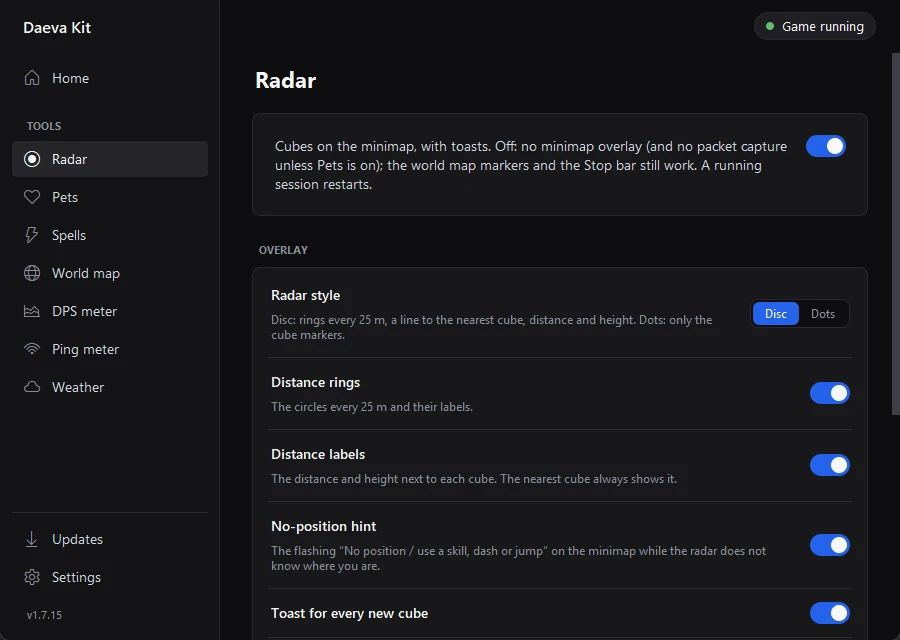
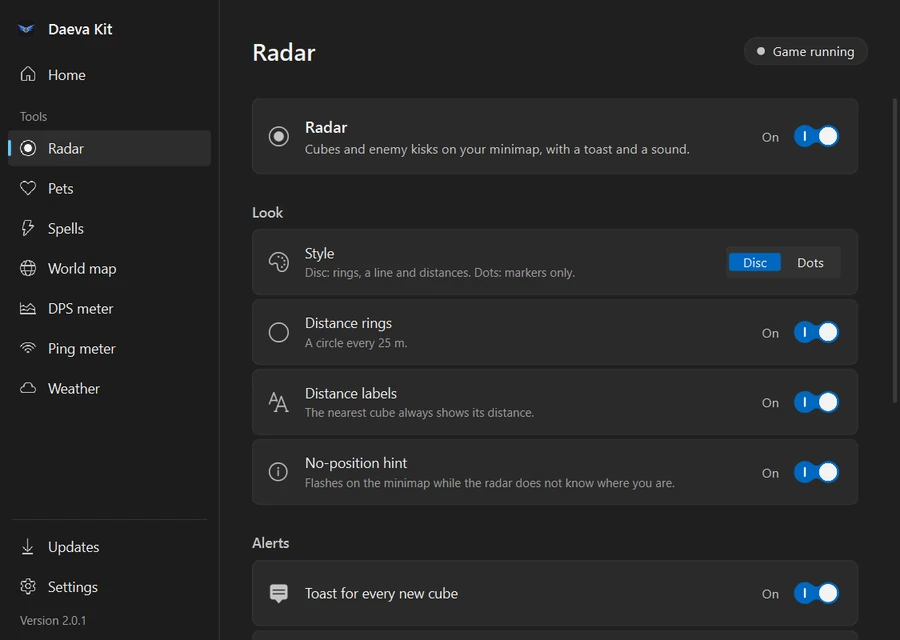
Update Daeva Kit and PowerTray screenshots for their new versions

diff --git a/src/data/projects.ts b/src/data/projects.ts
@@ -14,6 +14,12 @@ import daevaSpellIcons from '../assets/projects/daeva-kit/spell-icons.webp'
 import daevaPetsPanel from '../assets/projects/daeva-kit/pets-panel.webp'
 import daevaRadar from '../assets/projects/daeva-kit/radar-page.webp'
 import daevaWeather from '../assets/projects/daeva-kit/weather-page.webp'
+import daevaSpellsPage from '../assets/projects/daeva-kit/spells-page.webp'
+import daevaPingPage from '../assets/projects/daeva-kit/ping-page.webp'
+import daevaPetsPage from '../assets/projects/daeva-kit/pets-page.webp'
+import daevaWorldMap from '../assets/projects/daeva-kit/world-map-page.webp'
+import daevaSettings from '../assets/projects/daeva-kit/settings-page.webp'
+import daevaUpdates from '../assets/projects/daeva-kit/updates-page.webp'
 import engineMain from '../assets/projects/engine-optimizer/main-window.webp'
 import ilvlDashboard from '../assets/projects/ilvl-upgrade-odds/dashboard.webp'
 import lolRoc from '../assets/projects/lol-win-predictor/roc-comparison.webp'
@@ -27,6 +33,10 @@ import pokedexResult from '../assets/projects/pokedex/search-result.webp'
 import powertrayMain from '../assets/projects/powertray/main-window.webp'
 import powertrayPip from '../assets/projects/powertray/pip-window.webp'
 import powertrayTray from '../assets/projects/powertray/tray-menu.webp'
+import powertrayGames from '../assets/projects/powertray/games-page.webp'
+import powertrayLaunchers from '../assets/projects/powertray/launchers-page.webp'
+import powertraySettings from '../assets/projects/powertray/settings-page.webp'
+import powertrayUpdates from '../assets/projects/powertray/updates-page.webp'
 import videoEditorMain from '../assets/projects/simple-video-editor/main-window.webp'
 import steamAdd from '../assets/projects/steam-backlog-manager/add-game.webp'
 import steamDetails from '../assets/projects/steam-backlog-manager/game-details.webp'
@@ -47,19 +57,11 @@ export const projects: Project[] = [
       "Windows toolkit for AION 2 that reads the game's own network traffic for a minimap radar, ping meter, skill cooldowns and pet tracking.",
     overview:
       "A Windows toolkit for AION 2: one tray app with a page per tool. It reads the game client's own network traffic and the screen, then draws click-through overlays over the game: a radar that marks nearby cubes on the minimap with their distance and direction, markers on the world map, a ping meter with lag alerts, skill cooldown and buff icons, and a panel for the pet souls you're farming. It never sends or changes packets, touches the game's memory or automates input.",
-    tech: [
-      'Python',
-      'Scapy',
-      'Npcap',
-      'NumPy',
-      'mss',
-      'Tkinter',
-      'PyInstaller',
-    ],
+    tech: ['Python', 'Scapy', 'Npcap', 'NumPy', 'mss', 'PyQt6', 'PyInstaller'],
     featured: true,
     features: [
       "Read-only packet capture with Scapy and Npcap, decoding the game's LZ4-compressed messages; works through ping boosters like ExitLag via loopback capture",
-      'Minimap radar with distance rings, a line to the nearest cube and toasts; finds the minimap on screen by itself and learns new spawn types from clips you mark in game',
+      'Minimap radar for cubes and enemy kisks with distance rings, a line to the nearest cube and toasts; finds the minimap on screen by itself and learns new spawn types from clips you mark in game',
       "Ping meter with the in-game ping, the network round-trip and the last minute's maximum, and lag alerts that say whether a spike came from the PC, the network or the server",
       "Skill cooldown and buff icons you place anywhere over the game, with key capture and snapping into rows; skill names and icons from NC's public character pages",
       "Pet panel with the souls the pet you're farming needs for its next level, and which monsters in view drop pet souls",
@@ -71,7 +73,7 @@ export const projects: Project[] = [
         src: daevaHome,
         width: 900,
         height: 640,
-        alt: "Daeva Kit's Home page: a sidebar with Radar, Pets, Spells, World map, DPS meter, Ping meter and Weather; a green Play button; and a checklist with Npcap installed, Administrator yes, minimap set up and game found",
+        alt: "Daeva Kit's Home page: a sidebar with Radar, Pets, Spells, World map, DPS meter, Ping meter and Weather; Ready to play with Play and Quit buttons; and a checklist with Npcap installed, Administrator yes, minimap set up and the game running",
         caption: 'Home page with the before-playing checklist',
       },
       {
@@ -107,15 +109,57 @@ export const projects: Project[] = [
         src: daevaRadar,
         width: 900,
         height: 640,
-        alt: 'Radar page: the on/off switch and overlay options for radar style (disc or dots), distance rings, distance labels, the no-position hint and a toast for every new cube',
+        alt: 'Radar page: the switch for cubes and enemy kisks on the minimap, disc or dots style, distance rings every 25 m, distance labels, the no-position hint and a toast for every new cube',
         caption: 'Radar settings',
+      },
+      {
+        src: daevaSpellsPage,
+        width: 900,
+        height: 640,
+        alt: 'Spells page: the switch for skill cooldown and buff icons, Put back and Unlock buttons for placing them, when to show them (always, in combat or with the bar), only in game, opacity, faded opacity and how long they stay up after a fight',
+        caption: 'Spells settings',
+      },
+      {
+        src: daevaPingPage,
+        width: 900,
+        height: 640,
+        alt: 'Ping meter page: the on/off switch, showing it on the Stop bar or in a panel of its own, an alert at 100 ms, a switch for the folded Stop bar and a Put back button for the panel',
+        caption: 'Ping meter settings',
+      },
+      {
+        src: daevaPetsPage,
+        width: 900,
+        height: 640,
+        alt: 'Pets page: the switch for the pet soul tracker and an option to hide finished pets from the panel',
+        caption: 'Pets settings',
+      },
+      {
+        src: daevaWorldMap,
+        width: 900,
+        height: 640,
+        alt: 'World map page: the switch for resource, boss and other markers on the open world map, opened with M',
+        caption: 'World map settings',
       },
       {
         src: daevaWeather,
         width: 900,
         height: 640,
-        alt: 'Weather page: the on/off switch, a sample place of Seoul, South Korea with Find my city and Change buttons, Celsius or Fahrenheit, and a switch to show it on the folded Stop bar',
-        caption: 'Weather settings (sample place)',
+        alt: 'Weather page: the on/off switch, the city with Find my city and Change buttons, Celsius or Fahrenheit, a switch to show it on the folded Stop bar, and credits for Open-Meteo and ipinfo.io',
+        caption: 'Weather settings',
+      },
+      {
+        src: daevaSettings,
+        width: 900,
+        height: 640,
+        alt: 'Settings page: Start with Windows, a Play / Stop hotkey, showing on stream and recordings, showing the window on alt-tab, putting the Stop bar back at the minimap and opening the data folder',
+        caption: 'General settings',
+      },
+      {
+        src: daevaUpdates,
+        width: 900,
+        height: 640,
+        alt: "Updates page: You're up to date on version 2.0.1, switches to check for updates and install them when the app starts, and a Choose version button",
+        caption: 'Updates page',
       },
     ],
   },
@@ -127,29 +171,22 @@ export const projects: Project[] = [
       'Windows tray utility that switches to High Performance while games run and plays any game in a floating picture-in-picture window.',
     overview:
       "A Windows utility that sits in the system tray and switches Windows to the High Performance power plan while the games you choose are running, then back to Balanced when they close. It can also play any game, launcher or open window as a floating picture-in-picture player, like a browser's pop-out video: the game keeps running at full resolution on an invisible virtual monitor while a small always-on-top window shows it live and passes your mouse and keyboard through.",
-    tech: [
-      'Python',
-      'CustomTkinter',
-      'PyQt6',
-      'pywin32',
-      'psutil',
-      'PyInstaller',
-    ],
+    tech: ['Python', 'PyQt6', 'pywin32', 'psutil', 'PyInstaller'],
     featured: true,
     features: [
       'Watches the configured game processes with psutil and switches power plans through Windows powercfg',
       'Picture-in-picture for any game, launcher or open window: a live DWM thumbnail of the game, which runs on a virtual monitor from the bundled Virtual Display Driver',
       'Click into the PiP to play: the mouse and keyboard go to the game, and holding Alt gives the cursor back',
       "Switches a fullscreen game to windowed for the PiP and back afterwards, and remembers each program's PiP size",
-      'Sidebar window with Home, Games, Launchers and Open windows pages; drag in .exe files or shortcuts, which keep their launch arguments',
+      'Sidebar window with Home, Games, Launchers, Open windows, Updates and Settings pages; drag in .exe files or shortcuts, which keep their launch arguments',
       "Tray menu with the games' extracted icons, Launch in PiP and Steam Library, plus self-updates checked by size and SHA-256",
     ],
     images: [
       {
         src: powertrayMain,
         width: 1120,
-        height: 807,
-        alt: "PowerTray's Home page: a sidebar with Home, Games, Launchers, Open windows, Updates and Settings; the last played launcher with Launch and Launch PiP buttons; Balanced when no game is running and High performance when one is; and a PiP checklist with the Virtual Display Driver installed and the virtual monitor on at 3440x1440",
+        height: 765,
+        alt: "PowerTray's Home page: a sidebar with Home, Games, Launchers, Open windows, Updates and Settings; the Balanced power plan with no game running; AION2 as the last played game with Launch and Launch PiP buttons; and a PiP checklist with the Virtual Display Driver installed and the virtual monitor on at 3440x1440",
         caption:
           'Home page with the last played game, power plans and PiP checklist',
       },
@@ -162,11 +199,39 @@ export const projects: Project[] = [
           'A game playing in the picture-in-picture window, in front of other windows',
       },
       {
+        src: powertrayGames,
+        width: 1120,
+        height: 765,
+        alt: 'Games page with seven games, among them StarRail, Deadlock, Palworld, Zenless Zone Zero, AION2 and Wuthering Waves, each with Launch, PiP and more buttons, and an Add game button that also takes dropped .exe or .lnk files',
+        caption: 'Games that switch to High Performance while they run',
+      },
+      {
+        src: powertrayLaunchers,
+        width: 1120,
+        height: 765,
+        alt: 'Launchers page with HoYoPlay, Wuthering Waves, Black Desert, Deadlock Mod Manager and NIKKE launchers, each with Launch and PiP buttons',
+        caption: 'Launchers start without switching the power plan',
+      },
+      {
         src: powertrayTray,
-        width: 440,
-        height: 675,
+        width: 450,
+        height: 794,
         alt: 'Tray menu listing games and launchers with their icons, then Launch in PiP and PiP a running window submenus, Steam Library, Show Window and Exit',
         caption: 'Tray menu with Launch in PiP',
+      },
+      {
+        src: powertraySettings,
+        width: 1120,
+        height: 765,
+        alt: 'Settings page: Run at Windows Startup, Virtual Monitor on Startup, the virtual monitor size matched to the main monitor at 3440x1440, and the PiP minimize button as a taskbar button or collapse',
+        caption: 'Settings, including the virtual monitor size',
+      },
+      {
+        src: powertrayUpdates,
+        width: 1120,
+        height: 765,
+        alt: "Updates page: You're up to date on version 1.5.0, with switches to check for updates when PowerTray starts and to install them automatically when no PiP is open",
+        caption: 'Updates page',
       },
     ],
   },

diff --git a/CONTENT.md b/CONTENT.md
@@ -88,12 +88,12 @@ where there was no README. Figures are the projects' own printed results. Mirror
 - Picture-in-picture for any game, launcher or open window: a live DWM thumbnail of the game, which runs on a virtual monitor from the bundled Virtual Display Driver
 - Click into the PiP to play: the mouse and keyboard go to the game, and holding Alt gives the cursor back
 - Switches a fullscreen game to windowed for the PiP and back afterwards, and remembers each program's PiP size
-- Sidebar window with Home, Games, Launchers and Open windows pages; drag in .exe files or shortcuts, which keep their launch arguments
+- Sidebar window with Home, Games, Launchers, Open windows, Updates and Settings pages; drag in .exe files or shortcuts, which keep their launch arguments
 - Tray menu with the games' extracted icons, Launch in PiP and Steam Library, plus self-updates checked by size and SHA-256
 
 **Daeva Kit**: A Windows toolkit for AION 2: one tray app with a page per tool. It reads the game client's own network traffic and the screen, then draws click-through overlays over the game: a radar that marks nearby cubes on the minimap with their distance and direction, markers on the world map, a ping meter with lag alerts, skill cooldown and buff icons, and a panel for the pet souls you're farming. It never sends or changes packets, touches the game's memory or automates input.
 - Read-only packet capture with Scapy and Npcap, decoding the game's LZ4-compressed messages; works through ping boosters like ExitLag via loopback capture
-- Minimap radar with distance rings, a line to the nearest cube and toasts; finds the minimap on screen by itself and learns new spawn types from clips you mark in game
+- Minimap radar for cubes and enemy kisks with distance rings, a line to the nearest cube and toasts; finds the minimap on screen by itself and learns new spawn types from clips you mark in game
 - Ping meter with the in-game ping, the network round-trip and the last minute's maximum, and lag alerts that say whether a spike came from the PC, the network or the server
 - Skill cooldown and buff icons you place anywhere over the game, with key capture and snapping into rows; skill names and icons from NC's public character pages
 - Pet panel with the souls the pet you're farming needs for its next level, and which monsters in view drop pet souls
@@ -223,9 +223,12 @@ In use (WebP in `src/assets/projects/<slug>/`). Every project detail page has at
 - Captured by running the project: Steam Backlog Manager (3, local run at 1440×900), Parallel Name Sort
   (console window), Engine Optimizer (real window with a **sample** profile; the MongoDB cluster no
   longer resolves), Pokédex (search result and error state), TL Stat Calculator (Def vs Crit Res tab)
-- Provided by the owner: PowerTray (3: Home page, PiP composite on a white canvas on purpose, tray menu),
-  Daeva Kit (7 from `../Cube Finder/screenshots`, all sample data; the world map, DPS, pets, spells,
-  ping, settings and updates pages are left out)
+- Provided by the owner: PowerTray (7: Home, Games, Launchers, Settings and Updates pages and the tray
+  menu from v1.5.0, plus the PiP composite on a white canvas on purpose; the Open windows page is left
+  out because it shows the owner's real windows), Daeva Kit (13: the v2.0.1 app pages from
+  `../Cube Finder/brain/design/screenshots` except DPS, plus four in-game overlays from
+  `../Cube Finder/screenshots`, sample data; the Weather page shows the owner's real city, kept by
+  owner decision on 2026-11-22)
 - Plots: AI Game Recommender, MAGIC Gamma Classifier, LoL Win Predictor (listed above)
 - TNL API Scrapper: no image by owner decision (the tracker site needs a login to return data)
 

diff --git a/TASKS.md b/TASKS.md
@@ -19,6 +19,9 @@ Owner-only items are marked **(owner)**.
 
 ## Done
 
+- [x] New screenshots for PowerTray v1.5.0 (7, Open windows page left out: it shows the owner's
+      real windows) and Daeva Kit v2.0.1 (13: app pages plus in-game overlays; real city on the Weather
+      page kept by owner decision); both stacks now list PyQt6 instead of Tkinter/CustomTkinter
 - [x] Agent Progress Mod added (public repo, no releases so no Download button; 3 README screenshots)
 - [x] Featured projects are now Daeva Kit, PowerTray and Clipper for YouTube
 - [x] PowerTray updated for its redesign and picture-in-picture (new copy, owner's screenshots); its repo
